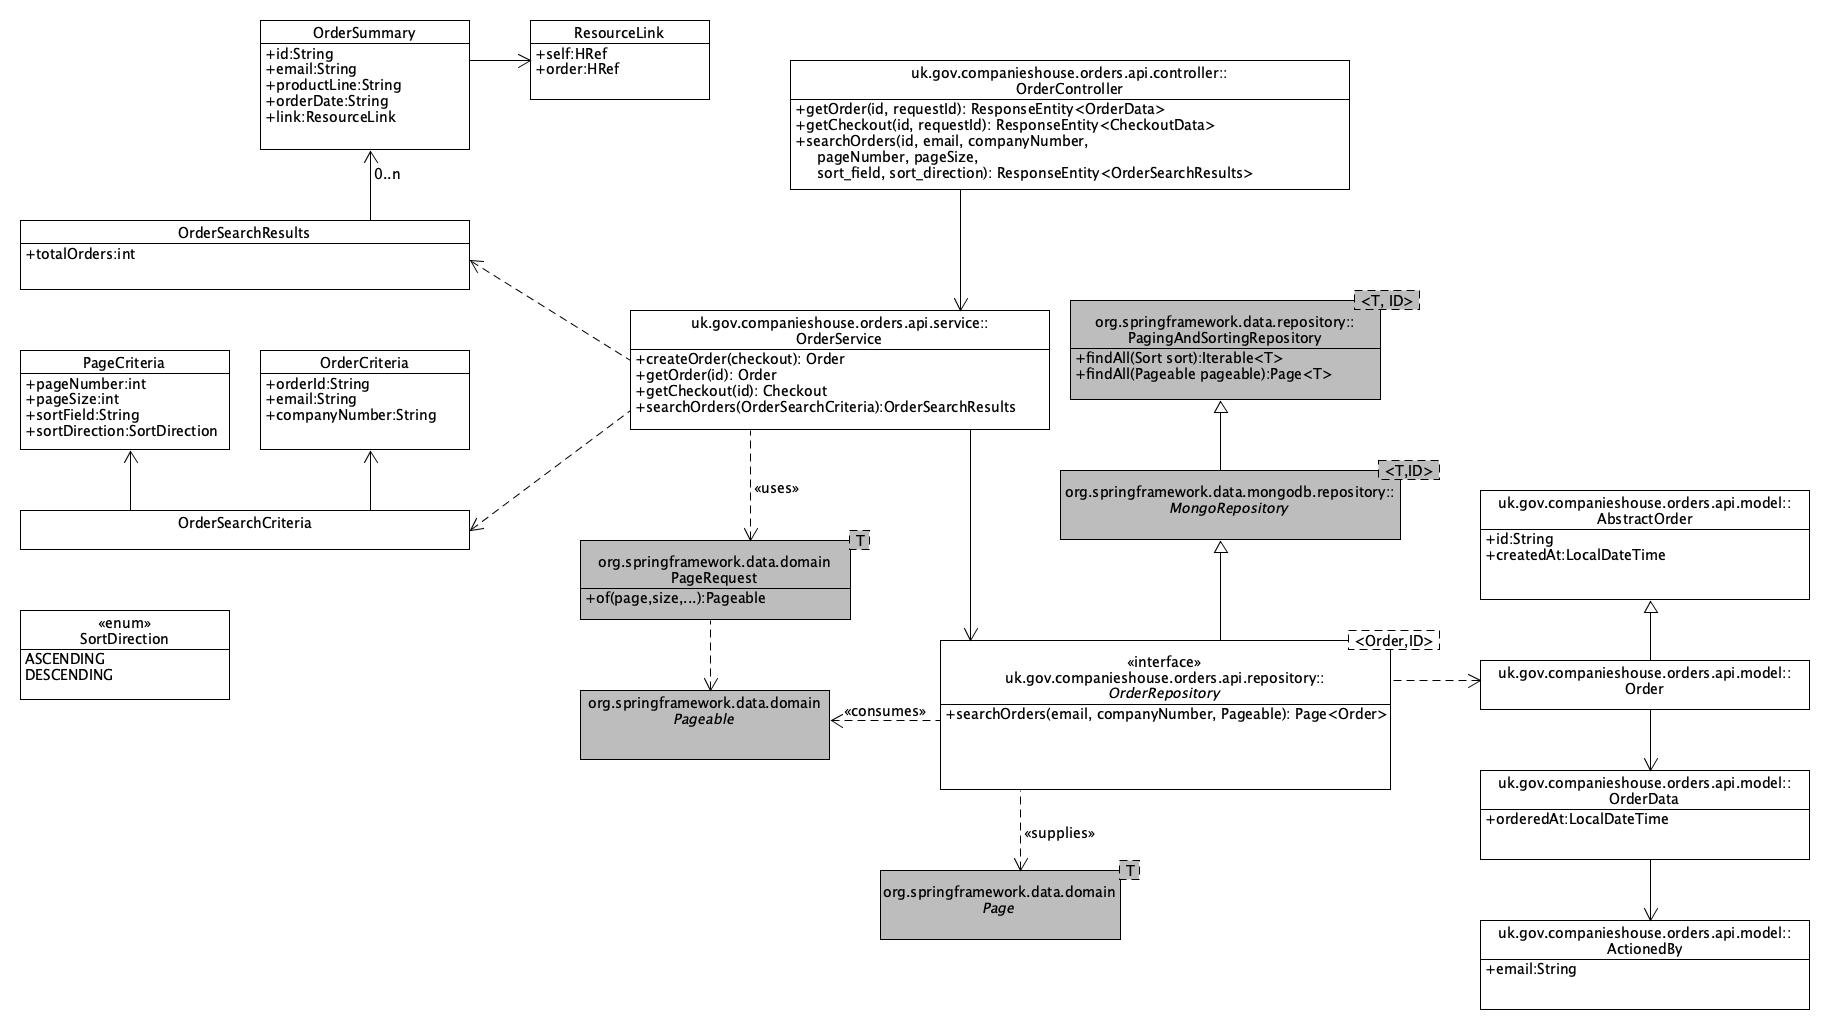
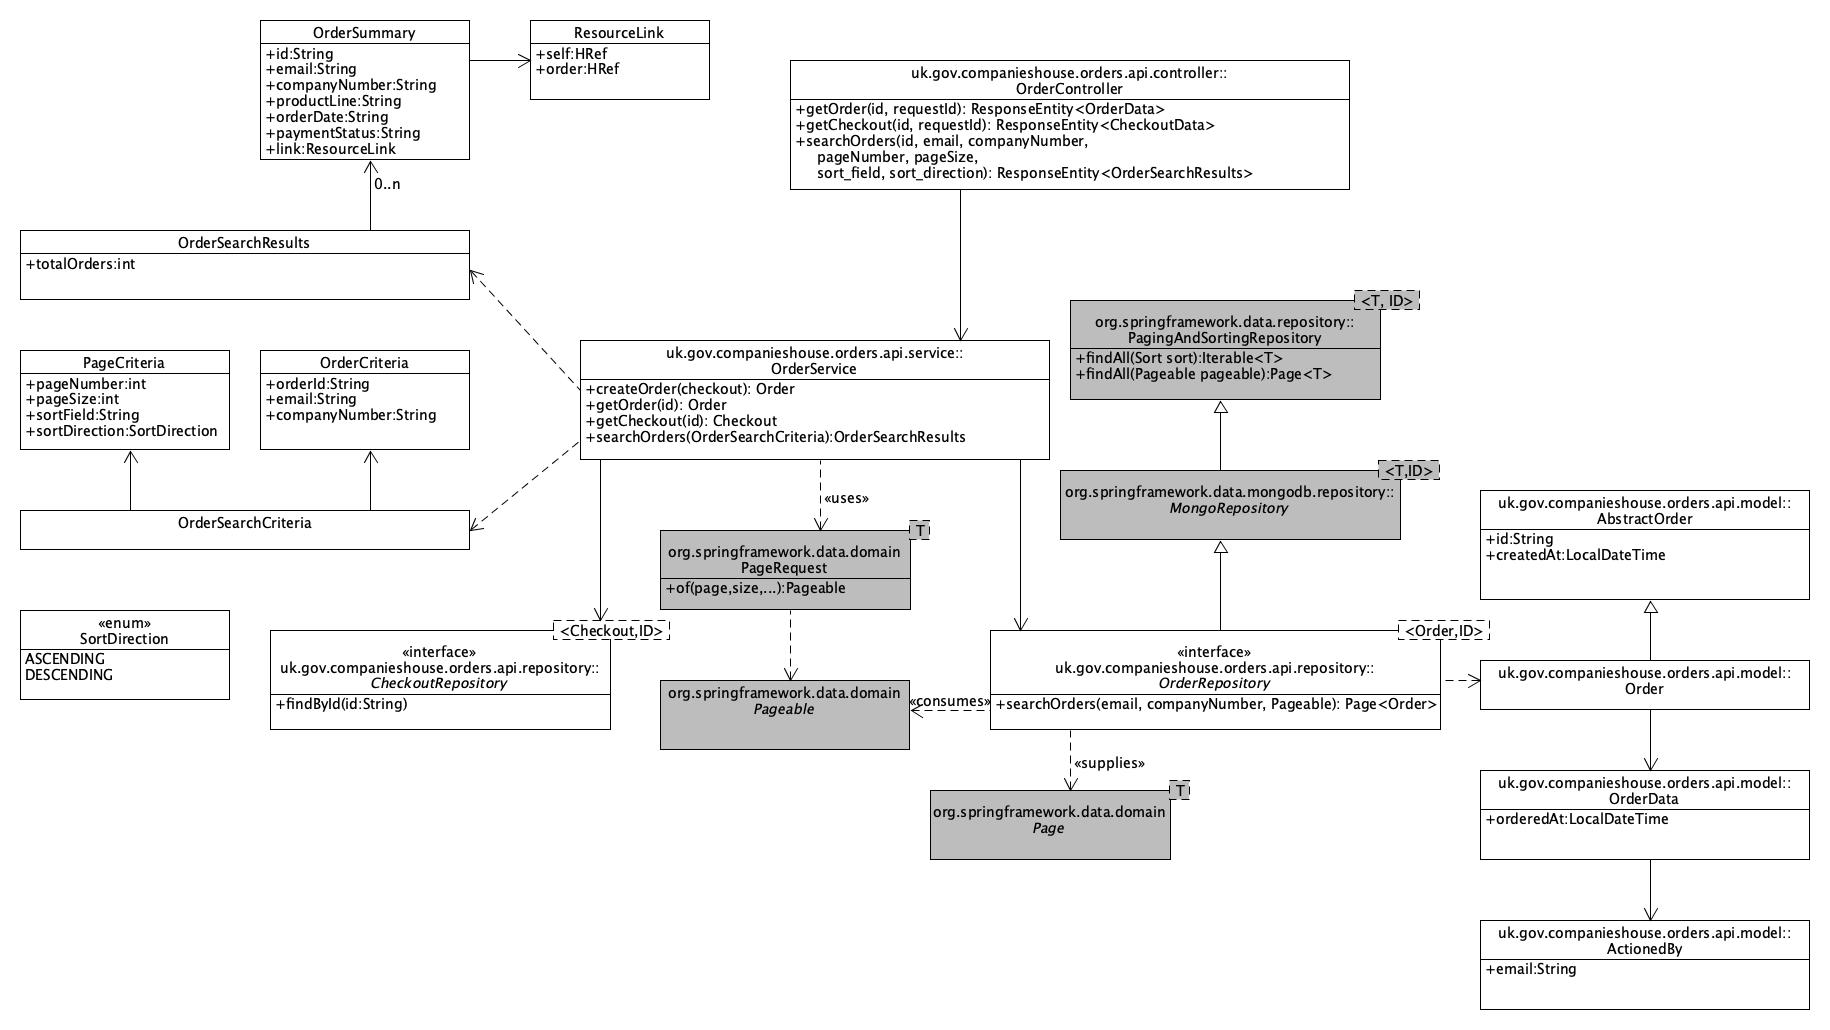
Add missing properties to search orders summary
* Add company number & payment status to order summary
* Use CheckoutRepository to obtain payment status for each order

diff --git a/src/test/java/uk/gov/companieshouse/orders/api/controller/OrderControllerIntegrationTest.java b/src/test/java/uk/gov/companieshouse/orders/api/controller/OrderControllerIntegrationTest.java
@@ -29,6 +29,7 @@ import uk.gov.companieshouse.orders.api.model.OrderData;
 import uk.gov.companieshouse.orders.api.model.OrderLinks;
 import uk.gov.companieshouse.orders.api.model.OrderSearchResults;
 import uk.gov.companieshouse.orders.api.model.OrderSummary;
+import uk.gov.companieshouse.orders.api.model.PaymentStatus;
 import uk.gov.companieshouse.orders.api.model.ResourceLink;
 import uk.gov.companieshouse.orders.api.repository.CheckoutRepository;
 import uk.gov.companieshouse.orders.api.repository.OrderRepository;
@@ -223,12 +224,15 @@ class OrderControllerIntegrationTest {
     @Test
     void searchOrdersById() throws Exception {
         orderRepository.save(getOrder(ORDER_ID, "demo@ch.gov.uk", "12345678"));
+        checkoutRepository.save(getCheckout(ORDER_ID, PaymentStatus.PAID));
         OrderSearchResults expected = new OrderSearchResults(1,
                 Collections.singletonList(
                         OrderSummary.newBuilder()
                                 .withId(ORDER_ID)
                                 .withEmail("demo@ch.gov.uk")
+                                .withCompanyNumber("12345678")
                                 .withProductLine("item#certificate")
+                                .withPaymentStatus(PaymentStatus.PAID)
                                 .withOrderDate(LocalDate.of(2022, 04, 12).atStartOfDay())
                                 .withResourceLink(new ResourceLink(new HRef("http"), new HRef("http")))
                                 .build()));
@@ -265,12 +269,15 @@ class OrderControllerIntegrationTest {
     @Test
     void searchOrdersByEmail() throws Exception {
         orderRepository.save(getOrder(ORDER_ID, "demo@ch.gov.uk", "12345678"));
+        checkoutRepository.save(getCheckout(ORDER_ID, PaymentStatus.PAID));
         OrderSearchResults expected = new OrderSearchResults(1,
                 Collections.singletonList(
                         OrderSummary.newBuilder()
                                 .withId(ORDER_ID)
                                 .withEmail("demo@ch.gov.uk")
+                                .withCompanyNumber("12345678")
                                 .withProductLine("item#certificate")
+                                .withPaymentStatus(PaymentStatus.PAID)
                                 .withOrderDate(LocalDate.of(2022, 04, 12).atStartOfDay())
                                 .withResourceLink(new ResourceLink(new HRef("http"), new HRef("http")))
                                 .build()));
@@ -307,14 +314,18 @@ class OrderControllerIntegrationTest {
     @Test
     void searchOrdersByCompanyNumber() throws Exception {
         orderRepository.save(getOrder(ORDER_ID, "demo@ch.gov.uk", "12345678"));
+        checkoutRepository.save(getCheckout(ORDER_ID, PaymentStatus.PAID));
         orderRepository.save(getOrder("0002", "demo2@ch.gov.uk", "23456781"));
+        checkoutRepository.save(getCheckout("0002", PaymentStatus.PAID));
 
         OrderSearchResults expected = new OrderSearchResults(1,
                 Collections.singletonList(
                         OrderSummary.newBuilder()
                                 .withId(ORDER_ID)
                                 .withEmail("demo@ch.gov.uk")
+                                .withCompanyNumber("12345678")
                                 .withProductLine("item#certificate")
+                                .withPaymentStatus(PaymentStatus.PAID)
                                 .withOrderDate(LocalDate.of(2022, 04, 12).atStartOfDay())
                                 .withResourceLink(new ResourceLink(new HRef("http"), new HRef("http")))
                                 .build()));
@@ -370,4 +381,11 @@ class OrderControllerIntegrationTest {
         return order;
     }
 
+    private Checkout getCheckout(String orderId, PaymentStatus paymentStatus) {
+        Checkout checkout = new Checkout();
+        checkout.setData(new CheckoutData());
+        checkout.setId(orderId);
+        checkout.getData().setStatus(paymentStatus);
+        return checkout;
+    }
 }

diff --git a/src/main/java/uk/gov/companieshouse/orders/api/model/OrderSummary.java b/src/main/java/uk/gov/companieshouse/orders/api/model/OrderSummary.java
@@ -6,15 +6,19 @@ import java.util.Objects;
 public class OrderSummary {
     private final String id;
     private final String email;
+    private final String companyNumber;
     private final String productLine;
     private final LocalDateTime orderDate;
+    private final PaymentStatus paymentStatus;
     private final ResourceLink resourceLink;
 
     private OrderSummary(Builder builder) {
         id = builder.id;
         email = builder.email;
+        companyNumber = builder.companyNumber;
         productLine = builder.productLine;
         orderDate = builder.orderDate;
+        paymentStatus = builder.paymentStatus;
         resourceLink = builder.resourceLink;
     }
 
@@ -25,8 +29,10 @@ public class OrderSummary {
     public static final class Builder {
         private String id;
         private String email;
+        private String companyNumber;
         private String productLine;
         private LocalDateTime orderDate;
+        private PaymentStatus paymentStatus;
         private ResourceLink resourceLink;
 
         private Builder() {
@@ -42,6 +48,11 @@ public class OrderSummary {
             return this;
         }
 
+        public Builder withCompanyNumber(String companyNumber) {
+            this.companyNumber = companyNumber;
+            return this;
+        }
+
         public Builder withProductLine(String productLine) {
             this.productLine = productLine;
             return this;
@@ -49,6 +60,11 @@ public class OrderSummary {
 
         public Builder withOrderDate(LocalDateTime orderDate) {
             this.orderDate = orderDate;
+            return this;
+        }
+
+        public Builder withPaymentStatus(PaymentStatus paymentStatus) {
+            this.paymentStatus = paymentStatus;
             return this;
         }
 
@@ -70,6 +86,10 @@ public class OrderSummary {
         return email;
     }
 
+    public String getCompanyNumber() {
+        return companyNumber;
+    }
+
     public String getProductLine() {
         return productLine;
     }
@@ -78,28 +98,36 @@ public class OrderSummary {
         return orderDate;
     }
 
+    public PaymentStatus getPaymentStatus() {
+        return paymentStatus;
+    }
+
     public ResourceLink getResourceLink() {
         return resourceLink;
     }
 
     @Override
     public boolean equals(Object o) {
-        if (this == o) {
-            return true;
-        }
-        if (o == null || getClass() != o.getClass()) {
-            return false;
-        }
+        if (this == o) return true;
+        if (o == null || getClass() != o.getClass()) return false;
         OrderSummary that = (OrderSummary) o;
-        return Objects.equals(id, that.id)
-                && Objects.equals(email, that.email)
-                && Objects.equals(productLine, that.productLine)
-                && Objects.equals(orderDate, that.orderDate)
-                && Objects.equals(resourceLink, that.resourceLink);
+        return Objects.equals(id, that.id) && Objects.equals(email,
+                that.email) && Objects.equals(companyNumber,
+                that.companyNumber) && Objects.equals(productLine,
+                that.productLine) && Objects.equals(orderDate,
+                that.orderDate) && paymentStatus == that.paymentStatus && Objects.equals(
+                resourceLink,
+                that.resourceLink);
     }
 
     @Override
     public int hashCode() {
-        return Objects.hash(id, email, productLine, orderDate, resourceLink);
+        return Objects.hash(id,
+                email,
+                companyNumber,
+                productLine,
+                orderDate,
+                paymentStatus,
+                resourceLink);
     }
 }

diff --git a/src/main/java/uk/gov/companieshouse/orders/api/service/OrderService.java b/src/main/java/uk/gov/companieshouse/orders/api/service/OrderService.java
@@ -20,6 +20,7 @@ import uk.gov.companieshouse.orders.api.logging.LoggingUtils;
 import uk.gov.companieshouse.orders.api.mapper.CheckoutToOrderMapper;
 import uk.gov.companieshouse.orders.api.model.ActionedBy;
 import uk.gov.companieshouse.orders.api.model.Checkout;
+import uk.gov.companieshouse.orders.api.model.CheckoutData;
 import uk.gov.companieshouse.orders.api.model.HRef;
 import uk.gov.companieshouse.orders.api.model.Item;
 import uk.gov.companieshouse.orders.api.model.Order;
@@ -130,6 +131,11 @@ public class OrderService {
                                                 .map(OrderData::getOrderedBy)
                                                 .map(ActionedBy::getEmail)
                                                 .orElse(null))
+                                .withCompanyNumber(Optional.ofNullable(order.getData())
+                                        .map(OrderData::getItems)
+                                        .flatMap(items -> items.stream().findFirst())
+                                        .map(Item::getCompanyNumber)
+                                        .orElse(null))
                                 .withProductLine(
                                         Optional.ofNullable(order.getData())
                                                 .map(OrderData::getItems)
@@ -137,6 +143,10 @@ public class OrderService {
                                                 .map(Item::getKind)
                                                 .orElse(null))
                                 .withOrderDate(order.getCreatedAt())
+                                .withPaymentStatus(getCheckout(order.getId())
+                                        .map(Checkout::getData)
+                                        .map(CheckoutData::getStatus)
+                                        .orElse(null))
                                 .withResourceLink(
                                         Optional.ofNullable(order.getData())
                                                 .map(OrderData::getLinks)

diff --git a/src/main/java/uk/gov/companieshouse/orders/api/service/CheckoutService.java b/src/main/java/uk/gov/companieshouse/orders/api/service/CheckoutService.java
@@ -1,6 +1,5 @@
 package uk.gov.companieshouse.orders.api.service;
 
-import org.bson.types.ObjectId;
 import org.springframework.stereotype.Service;
 import uk.gov.companieshouse.orders.api.model.*;
 import uk.gov.companieshouse.orders.api.repository.CheckoutRepository;
@@ -9,7 +8,6 @@ import uk.gov.companieshouse.orders.api.util.CheckoutHelper;
 import java.security.SecureRandom;
 import java.time.LocalDateTime;
 import java.util.Calendar;
-import java.util.List;
 import java.util.Optional;
 
 @Service
